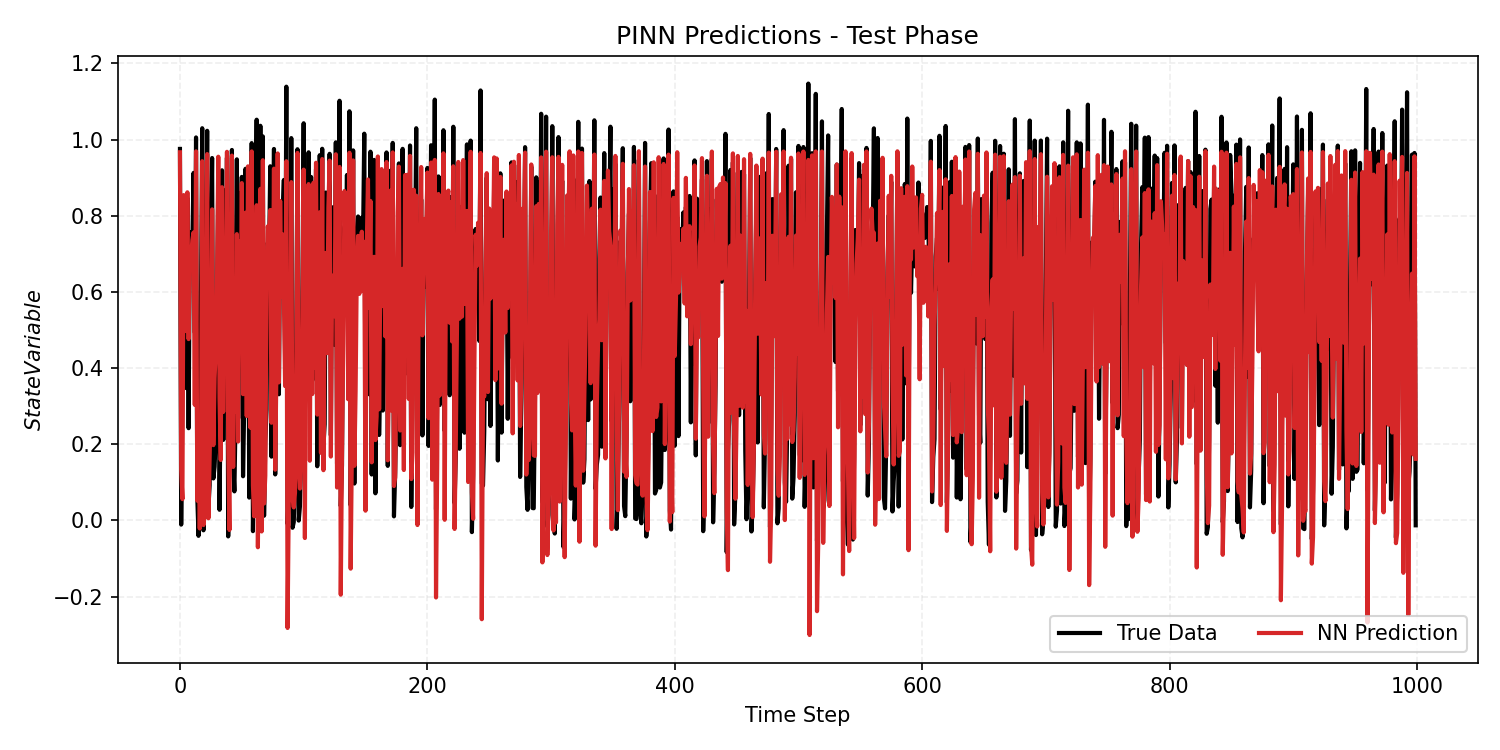
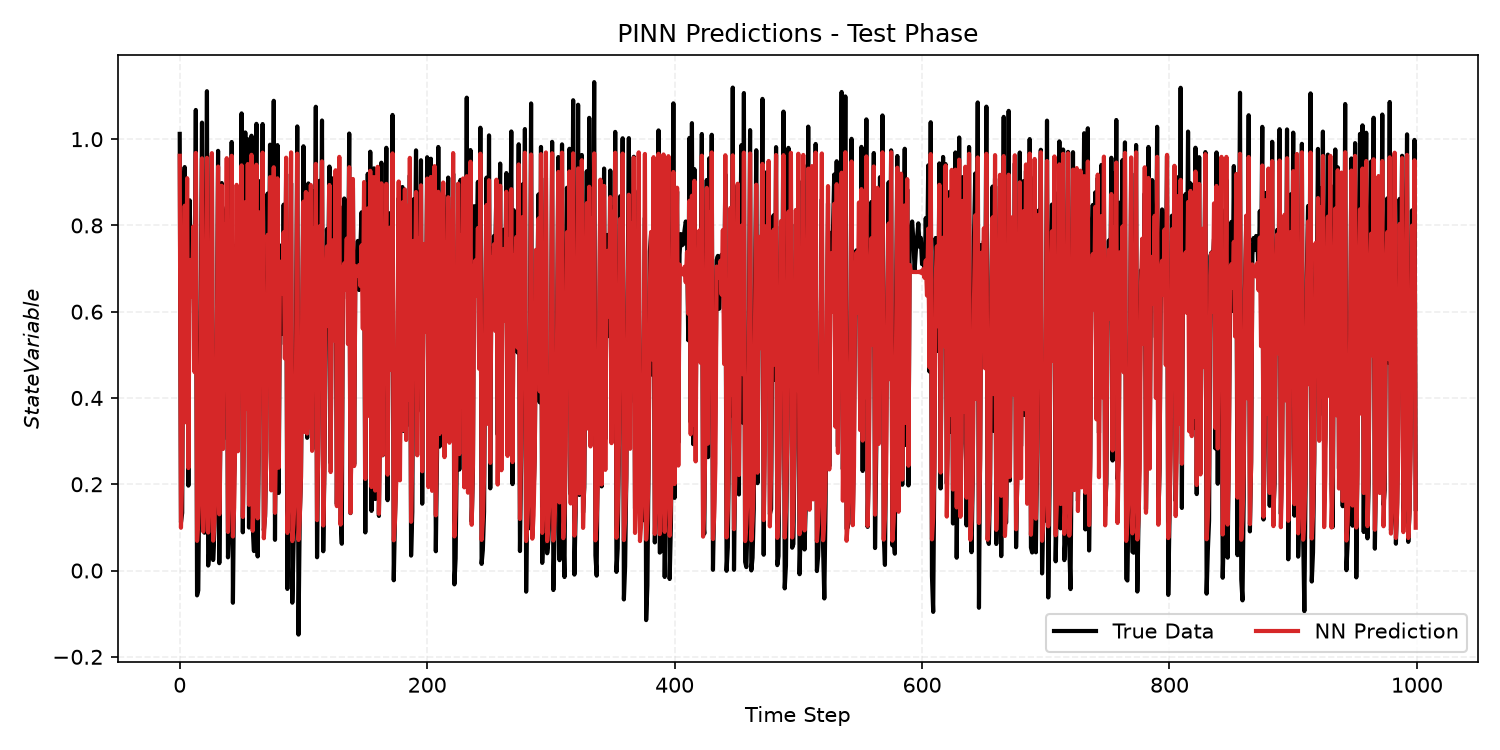
more exp

diff --git a/discrete_pinn/train_model.py b/discrete_pinn/train_model.py
@@ -99,18 +99,39 @@ def train(map_func : str):
     match map_func:
         case "logistic_map":
             map_data = MapFunction()
-            x_trajectory, timestep = map_data.run_trajectory("logistic_map")
+            x_trajectory, timestep = map_data.run_trajectory(map_func)
             model = LogisticPINN(n_hidden= 8, r_init=1.99)
-            train_data, test_data = map_data.make_data_splits( )
+            train_data, test_data = map_data.make_data_splits()
             print(f"{"-"*5}{map_func} data are created{"-"*5}")
-            x_curr_train, x_next_train = train_data
-            x_curr_test, x_next_test = test_data
-            x_next_true_train = x_next_train
-            x_next_true_test = x_next_test
+            x_curr_train, x_next_true_train = train_data
+            x_curr_test, x_next_true_test = test_data
+            
+
+        case "logistic_map_with_noise":
+
+            #----------Noisy Data----------------
+            map_data = MapFunction()
+            noisy_trajectory, timestep = map_data.run_trajectory("logistic_map_with_noise")
+            train_data, test_data = map_data.make_data_splits()
+            x_curr_train, x_next_true_train = train_data
+            x_curr_test, x_next_true_test = test_data
+            print(f"\n{"-"*5} Noisy Data Logistic Map Prepared {"-"*5}")
+
+            #----------Clean Data----------------
+            map_data_true = MapFunction()
+            true_trajectory, timestep = map_data_true.run_trajectory("logistic_map")
+            train_data_clean, test_data_clean = map_data_true.make_data_splits()
+            x_curr_train_clean, x_next_true_train_clean = train_data_clean
+            x_curr_test_clean, x_next_true_test_clean = test_data_clean
+            print(f"\n{"-"*5} Clean Data Logistic Map Prepared {"-"*5}")
+
+            model = LogisticPINN(n_hidden= 8, r_init=1.99)
+
+
 
         case "henon_map":
             map_data = MapFunction()
-            henon_trajectory, timestep = map_data.run_trajectory("henon_map")
+            henon_trajectory, timestep = map_data.run_trajectory(map_func)
             print(f"Henon_full data:")
             print(f"{henon_trajectory[:5]}")
             model = HenonPINN(n_hidden= 8, a_init=0.9 , b_init=0.7)
@@ -142,28 +163,43 @@ def train(map_func : str):
     criterion = LossCalc()
     optimizer = optim.Adam(model.parameters(), lr=1e-2)
     
-    epochs = 3000
+    epochs = 1000
     pbar = tqdm(range(epochs), desc=f"Training {map_func}PINN")
 
     param_history = {"a": [], "b": []}
     
     for epoch in pbar:
-        model.train()
-        
-        # Forward pass: predict x_{n+1} from x_n, x_{n-1}
-        x_next_pred = model(x_curr_train) 
-        
-        # Compute combined loss
-        total_loss = criterion( model, x_next_pred, x_next_true_train,x_curr_train,calc_physics=True)
-        
-        # Backpropagation
-        optimizer.zero_grad()
-        total_loss.backward()
-        optimizer.step()
-        
+
+        if map_func == "logistic_map_with_noise":
+
+            model.train()       
+            # Forward pass: predict x_{n+1} from x_n, x_{n-1}
+            x_next_pred = model(x_curr_train) 
+            
+            # Compute combined loss
+            total_loss = criterion( model, x_next_pred, x_next_true_train_clean,x_curr_train,calc_physics=True)
+            
+            # Backpropagation
+            optimizer.zero_grad()
+            total_loss.backward()
+            optimizer.step()
+
+        else:
+            model.train()
+            
+            # Forward pass: predict x_{n+1} from x_n, x_{n-1}
+            x_next_pred = model(x_curr_train) 
+            
+            # Compute combined loss
+            total_loss = criterion( model, x_next_pred, x_next_true_train,x_curr_train,calc_physics=True)
+            
+            # Backpropagation
+            optimizer.zero_grad()
+            total_loss.backward()
+            optimizer.step()
+            
         if epoch % 10 == 0:
 
-           
             for name, param in model.named_parameters():
                 if name in ["a", "b"]:
                     param_history[name].append(param.item())
@@ -178,6 +214,9 @@ def train(map_func : str):
             pbar.set_postfix(postfix_dict)
 
         
+    if map_func == "logistic_map_with_noise":
+        test_data = test_data_clean
+        x_next_true_test = x_next_true_test
 
     test_loss, x_next_pred = evaluate(model, criterion, test_data)
     plot_predictions(param_history,x_next_pred,x_next_true_test)
@@ -188,6 +227,38 @@ def train(map_func : str):
             print(f"  {name} = {param.item():.4f}")
 
 
+    # 1. Convert tensors to NumPy arrays
+    y_true = x_next_true_test.detach().cpu().numpy().flatten()
+    y_pred = x_next_pred.detach().cpu().numpy().flatten()
+
+    # 2. Plot Overlapping Distributions
+    plt.figure(figsize=(8, 5), dpi=150)
+
+    plt.hist(
+        y_true,
+        bins=40,
+        density=True,
+        alpha=0.5,
+        color="blue",
+        label="True Clean Data",
+    )
+    plt.hist(
+        y_pred,
+        bins=40,
+        density=True,
+        alpha=0.5,
+        color="orange",
+        label="PINN Prediction",
+    )
+
+    plt.title(
+        "Attractor Density Distribution: True vs. PINN Predicted", fontsize=14
+    )
+    plt.xlabel("Value ($x_{n+1}$)", fontsize=12)
+    plt.ylabel("Density", fontsize=12)
+    plt.legend(loc="upper right")
+    plt.grid(True, linestyle="--", alpha=0.3)
+    plt.show()
     return model
 
 

diff --git a/discrete_pinn/data_creation.py b/discrete_pinn/data_creation.py
@@ -4,6 +4,8 @@ import matplotlib.pyplot as plt
 from pathlib import Path
 import pandas as pd
 import os
+import scipy.stats as stats
+
 
 from data_setup import create_delay_embedding 
 
@@ -54,14 +56,6 @@ class MapFunction:
                 data.append(state_x)
 
 
-            # ---  Add White Gaussian Noise (Measurement Noise) ---
-            # eta = 0.2
-            # sigma_logistic_map = np.std(data)
-            # sigma =eta*sigma_logistic_map
-            # mean = 0
-            # white_noise = np.random.normal(mean, sigma, steady_step)
-            # ------------------------------------------------------
-
             self.trajectory = np.array(data)
             return self.trajectory, np.arange(0,steady_step,1)
 
@@ -86,12 +80,12 @@ class MapFunction:
                 time_series_data.append(state_x)
 
             # --- 2. Apply the Paper's Noise Formula ---
-            eta = 0.03  # 3% noise-to-signal ratio
+            eta = 0.05  # Signal Noise Ratio %
             sigma_x = np.std(time_series_data)  # Standard deviation of the clean signal
             sigma_noise = eta * sigma_x  # Scaled noise standard deviation
 
             # Generate white noise using the paper's formula
-            white_noise = np.random.normal(loc=0.0, scale=sigma_noise, size=len(steady_step))
+            white_noise = np.random.normal(loc=0.0, scale=sigma_noise, size=len(time_series_data))
 
             # Construct noisy time series s(k)
             noisy_data = time_series_data + white_noise
@@ -225,6 +219,9 @@ class MapFunction:
 
         Logistic Map : (N_timestep, 1)
         Henon Map : (N_timestep,2)
+
+        Returns:
+            Train_data, Test_data : (N,1),(N,1)
         """
         if self.trajectory is None:
                     raise ValueError ("No trajectory Found !!")
@@ -308,19 +305,82 @@ if __name__ == "__main__":
     import numpy as np
 
     map_data = MapFunction()
+    logistic_map, _ = map_data.run_trajectory("logistic_map")
 
+    map_data2 = MapFunction()
+    logistic_map_noisy, _ = map_data2.run_trajectory("logistic_map_with_noise")
 
-    henon_traj, henon_time = map_data.run_trajectory("henon_map", steady_step=100)
-    print("--- Hénon Map ---")
-    print(f"Trajectory shape: {henon_traj.shape}")
-    #--- Hénon Map X state---
-    #Trajectory shape: (100, 2)
-    #
-
-    henon_input, henon_target = create_delay_embedding(henon_traj) 
-    # henon_input[:,0:1] = X_n   (,1)
-    # henon_input[:,1:2] = X_n-1 (,1)
-    # henon_target[:,:] = X_n+1  (,)
-
-    map_data.convert_data2pd()
+    plt.figure(figsize=(8, 6))
+    plt.plot(logistic_map[:-1],
+        logistic_map[1:],
+        ".",
+        color="tab:blue",
+        alpha=0.6,
+        label="Clean",)
     
+    plt.plot(
+        logistic_map_noisy[:-1],
+        logistic_map_noisy[1:],
+        ".",
+        color="tab:red",
+        alpha=0.6,
+        label="Noisy",)
+    plt.xlabel(r"$x_n$")
+    plt.ylabel(r"$x_{n+1}$")
+    plt.title("Logistic Map Phase Plot")
+    plt.grid(True, linestyle="--")
+    plt.legend()
+    plt.tight_layout()
+    
+    
+    plt.figure(figsize=(8, 5), dpi=150)
+    count, bins, ignored = plt.hist(logistic_map, bins=100, density=True, alpha=0.6, color="black", label="Clean")
+    count, bins, ignored = plt.hist(logistic_map_noisy, bins=100, density=True, alpha=0.6, color="blue", label="Noisy")
+
+    x_pdf = np.linspace(0.001, 0.999, 500)
+    logistic_pdf = 1.0 / (np.pi * np.sqrt(x_pdf * (1.0 - x_pdf)))
+
+    plt.plot(
+        x_pdf,
+        logistic_pdf,
+        "r-",
+        linewidth=2.5,
+        label="Theoretical Logistic PDF ($r=4$)"
+    )
+
+
+
+    extracted_noise = logistic_map_noisy - logistic_map
+    sigma_actual = np.std(extracted_noise)
+    mean_noise= np.mean(extracted_noise)
+    print(f"Mean : {mean_noise} , Std Dev: {sigma_actual}")
+    plt.figure(figsize=(9, 5), dpi=150)
+    count, bins, ignored = plt.hist(
+        extracted_noise,
+        bins=60,
+        density=True,
+        alpha=0.6,
+        color="black",
+        label="Empirical Added Noise",
+    )
+
+    # 3. Plot the Correct Theoretical Gaussian PDF
+    xmin, xmax = plt.xlim()
+    x = np.linspace(xmin, xmax, 100)
+    # Use mean = 0 and scale = sigma_actual (derived from your eta * sigma_x formula)
+    p = stats.norm.pdf(x, loc=0.0, scale=sigma_actual)
+
+    plt.plot(
+        x,
+        p,
+        "r-",
+        linewidth=2.5,
+        label=f"Theoretical $\mathcal{{N}}(0, \sigma^2)$ ($\sigma$={sigma_actual:.4f})",
+    )
+
+    plt.title("Verification of Additive White Gaussian Noise", fontsize=13)
+    plt.xlabel("Noise Magnitude", fontsize=12)
+    plt.ylabel("Density", fontsize=12)
+    plt.legend(loc="upper right")
+    plt.grid(True, linestyle="--", alpha=0.3)
+    plt.show()

diff --git a/discrete_pinn/main.py b/discrete_pinn/main.py
@@ -20,7 +20,7 @@ def main ():
     # print(x_curr_train)
 
     #--------------------------------------#
-    train("logistic_map")
+    train("logistic_map_with_noise")
 
 
 if __name__ == "__main__":
